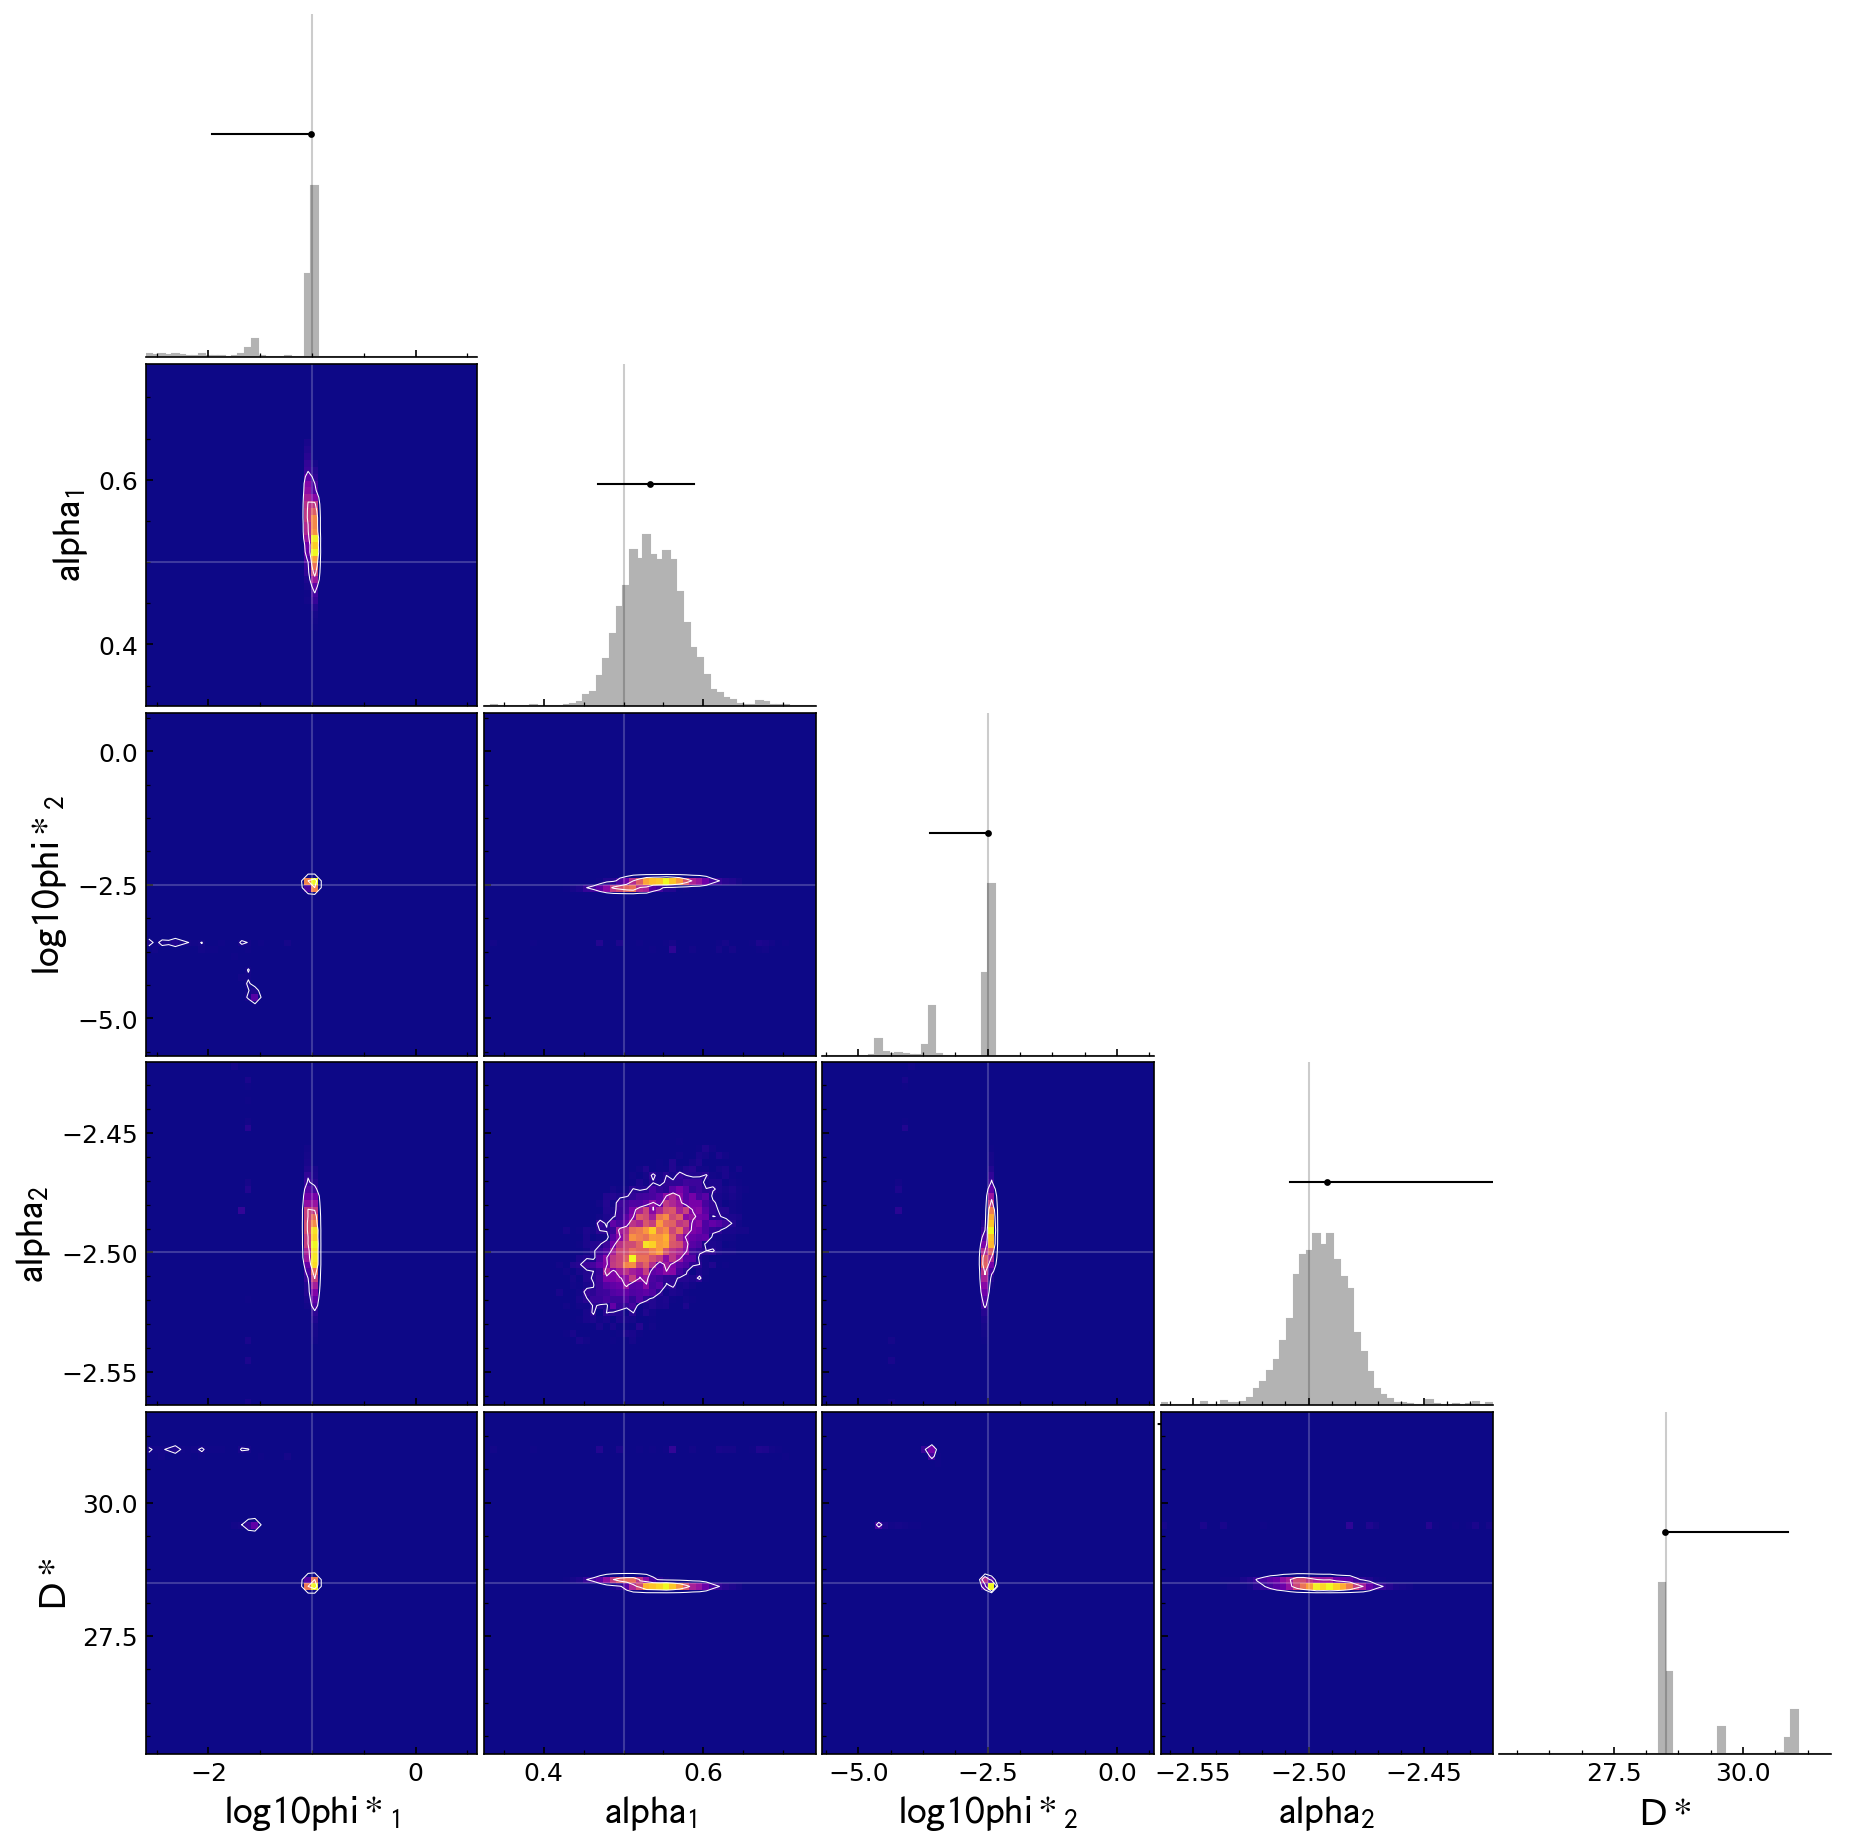
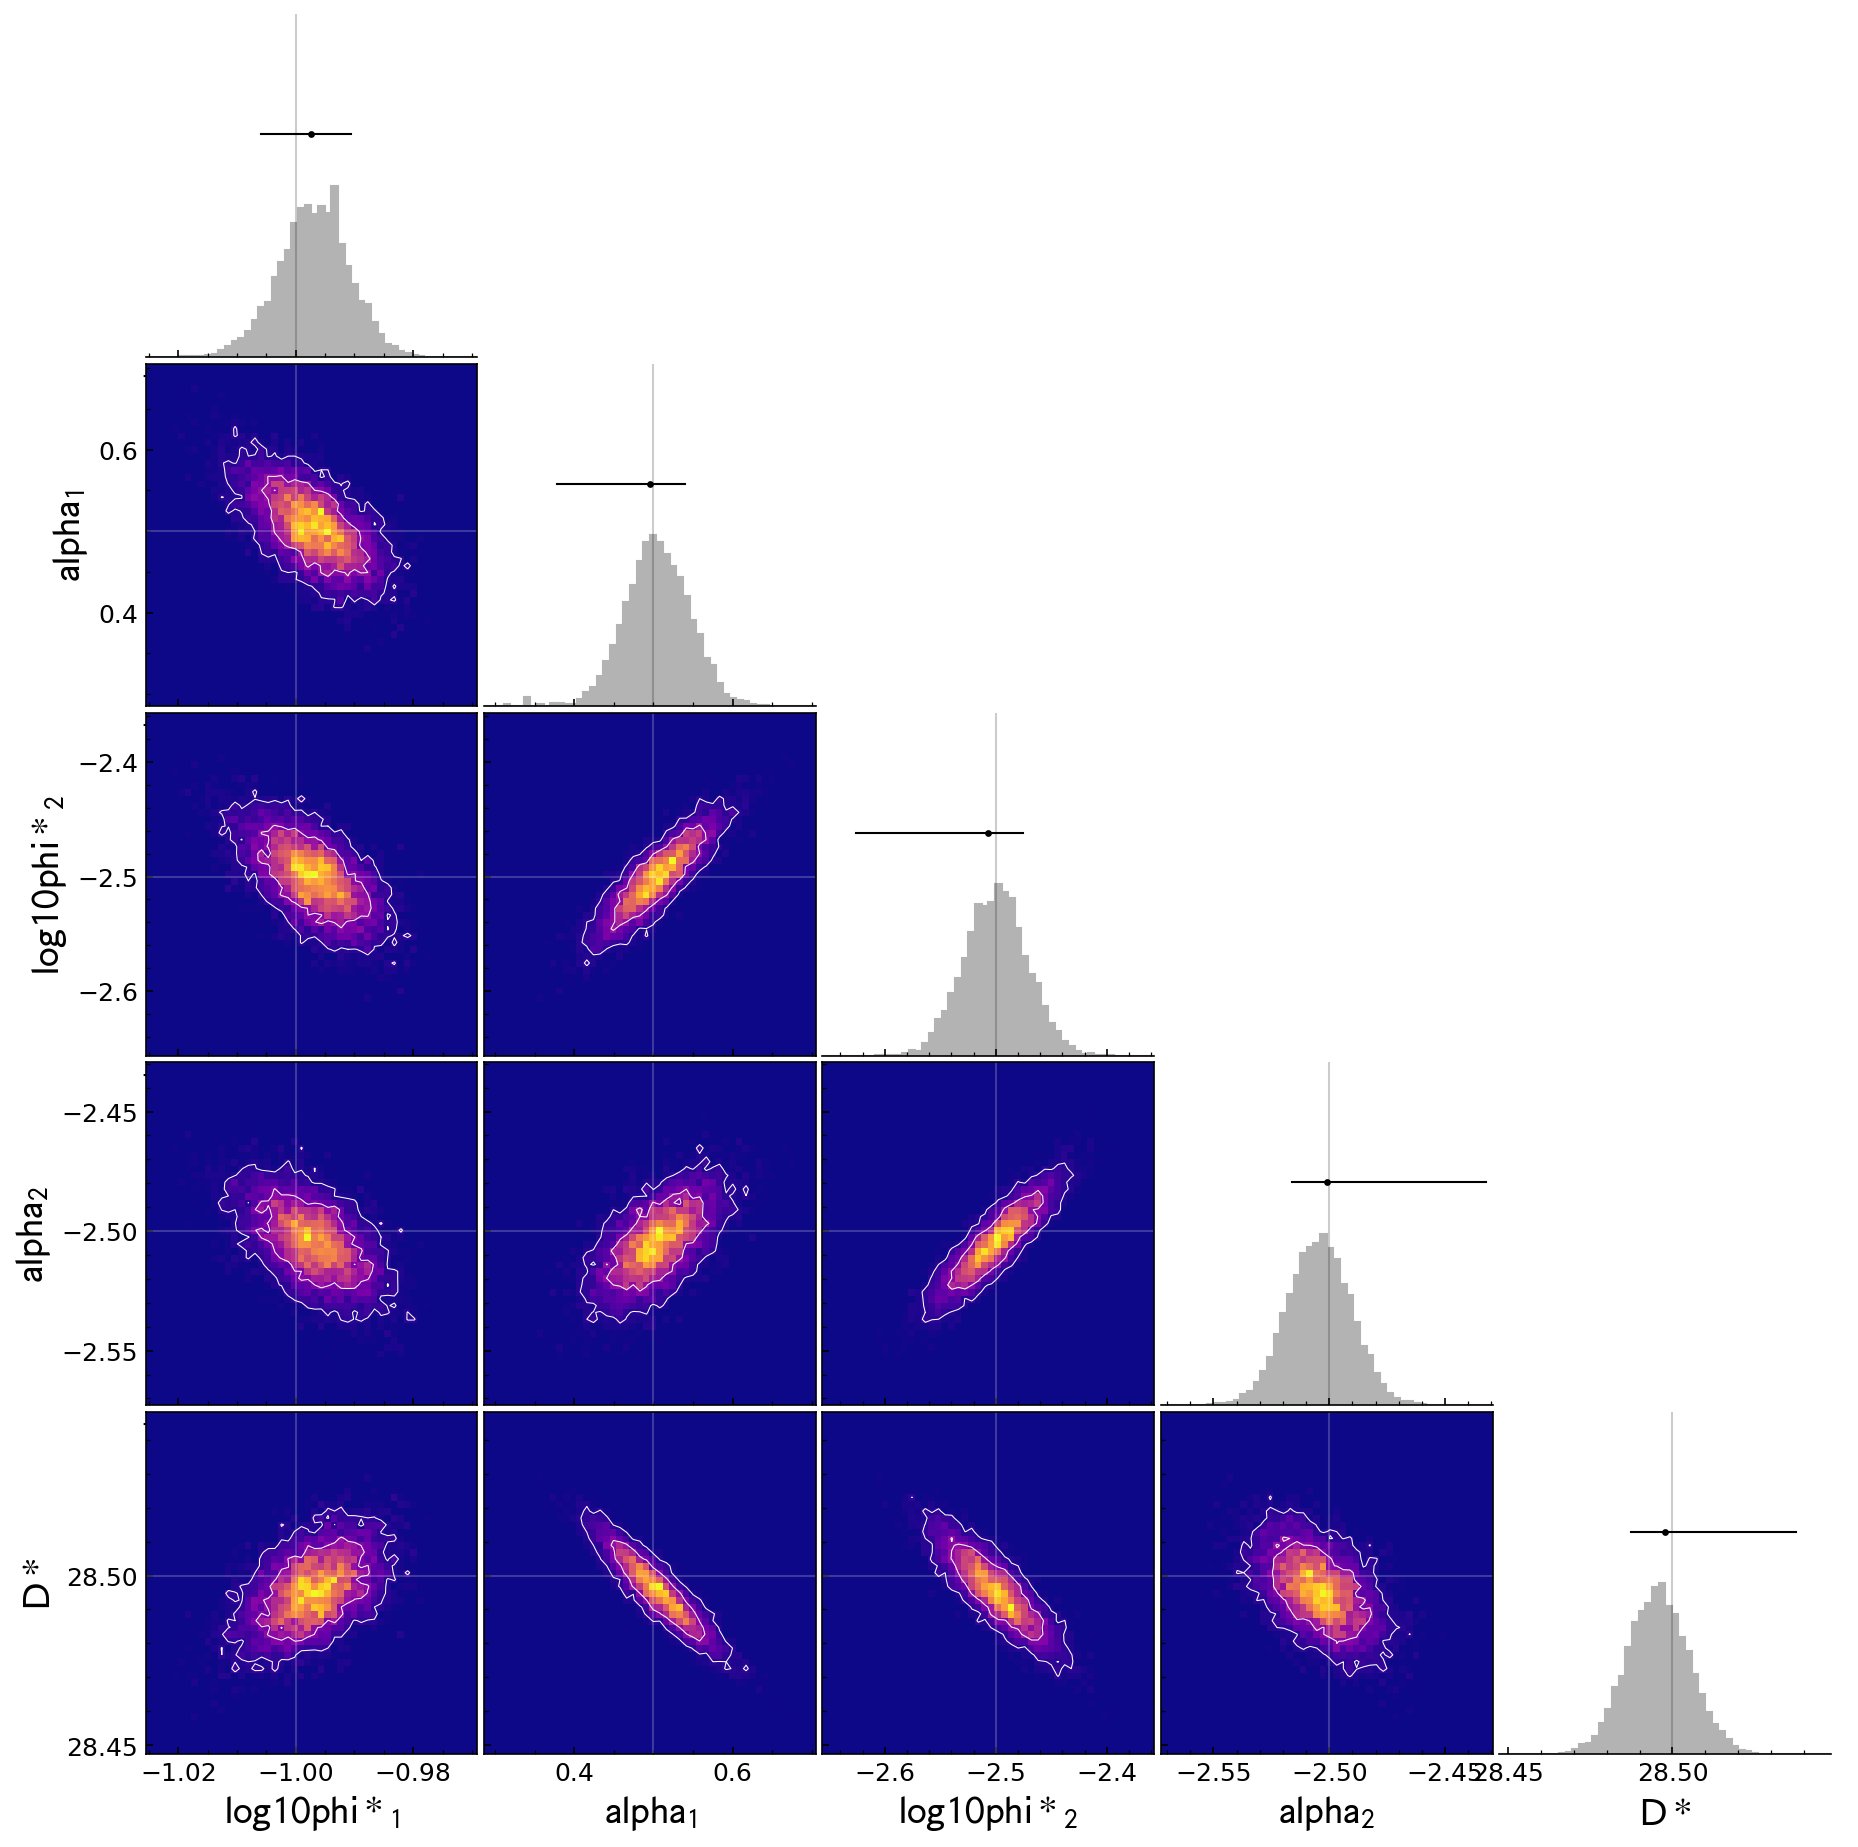
samples saved to json instead of pickle

diff --git a/fitDF/analyse.py b/fitDF/analyse.py
@@ -2,7 +2,6 @@ import numpy as np
 import matplotlib.pyplot as plt
 import matplotlib.image as mpimg
 from matplotlib import cm
-import pickle
 import json
 import scipy
 
@@ -18,7 +17,10 @@ class analyse():
         self.observations = observations
 
         if samples is False:
-            self.samples = pickle.load(open(self.ID+'/'+sample_save_ID+'.p', 'rb')) 
+            with open("%s/%s.json"%(self.ID,sample_save_ID),'r') as f:
+                _samples = json.load(f)
+            
+            self.samples = {key: np.array(arr) for key,arr in _samples.items()}
         else:
             self.samples = samples
 
@@ -39,7 +41,6 @@ class analyse():
             with open(self.ID+'/input_parameters.json', 'r') as f:
                 self.input_parameters = json.load(f)
                 print(self.input_parameters)
-            # self.input_parameters = pickle.load(open(self.ID+'/input_parameters.p', 'rb')) 
         except:
             self.input_parameters = False
 

diff --git a/fitDF/fitDF.py b/fitDF/fitDF.py
@@ -3,10 +3,9 @@
 import numpy as np
 import emcee
 import scipy.stats
-import pickle
+import json
 from . import models
 import scipy.misc
-#import math
 
 
 class fitter():
@@ -79,6 +78,16 @@ class fitter():
 
             samples[p] = chains[:,ip]
 
-        pickle.dump(samples, open(self.output_directory+'/'+sample_save_ID+'.p', 'wb'))
+        self.save_samples(samples,sample_save_ID)
 
         return samples
+
+
+    def save_samples(self, samples, save_ID):
+        
+        samples = {key: arr.tolist() for key,arr in samples.items()}
+
+        with open('%s/%s.json'%(self.output_directory,save_ID),"w") as f:
+            json.dump(samples,f)
+        
+

diff --git a/example_fit.py b/example_fit.py
@@ -30,7 +30,7 @@ priors = {}
 
 model = models.DoubleSchechter()
 
-priors['log10phi*_1'] = scipy.stats.uniform(loc = -5.0, scale = 4.0) 
+priors['log10phi*_1'] = scipy.stats.uniform(loc = -5.0, scale = 6.0) 
 priors['alpha_1'] = scipy.stats.uniform(loc = -1.0, scale = 3.0) 
 priors['log10phi*_2'] = scipy.stats.uniform(loc = -5.0, scale = 4.0) 
 priors['alpha_2'] = scipy.stats.uniform(loc = -4.0, scale =3.0) 
